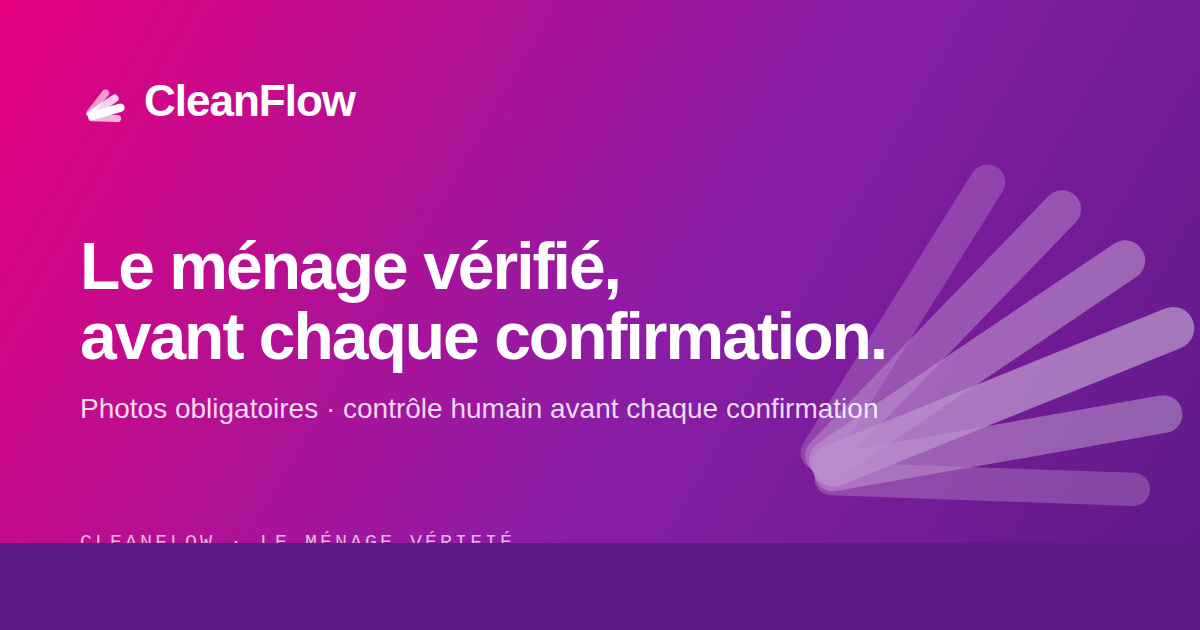
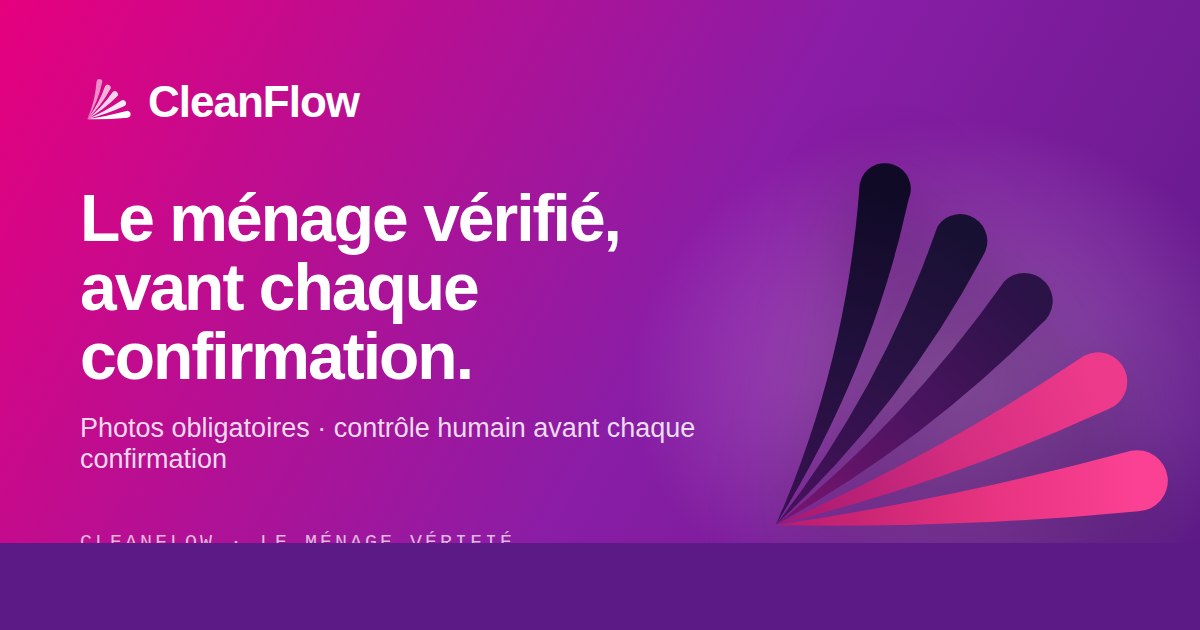
Portals: Plus Jakarta back + de-AI the components; OG uses real feather
- Font: restore Plus Jakarta Sans across ui.css and the four heads (removing
  it was a mistake — only the pink theme was requested).
- De-AI the shared components per common 'AI slop' tells (boxed-everything,
  left-accent stripes, candy tint fills, pill badges, symmetric shadowed
  stat tiles):
  * Mission/dossier rows: drop the left-border stripe and tint-fill; active
    state is now a pink title with a short underline accent, not a filled block.
  * Status: quiet typographic dot-tags instead of filled pills.
  * Tabs: editorial underlined tab bar instead of boxed button row.
  * Stats: de-boxed figure row with hairline dividers, ink numerals.
  * Cards flatter (no floaty shadow); price list reads like a receipt.
- OG image: embed the actual feather mark (assets/fan-mark.svg) as the hero
  graphic with a soft glow, plus a matching wordmark lockup.

Claude-Session: https://claude.ai/code/session_01PSFB2AcGDjQKMr7dBD2kz8

Changed region(s): [[0.0617, 0.2413, 1.0, 0.8444], [0.0617, 0.1206, 0.3083, 0.2111], [0.8017, 0.2413, 0.8325, 0.3016]]

diff --git a/assets/ui.css b/assets/ui.css
@@ -23,9 +23,9 @@
   --shadow-sm: 0 8px 20px rgba(18,18,58,.07);
 }
 *{ box-sizing:border-box; margin:0; padding:0; }
-body{ font-family:'Poppins', sans-serif; color:var(--ink); background:var(--soft); min-height:100vh; }
+body{ font-family:'Plus Jakarta Sans', sans-serif; color:var(--ink); background:var(--soft); min-height:100vh; }
 .app-wrap{ max-width: 1140px; margin:0 auto; padding: 30px 20px 70px 20px; }
-h1,h2,h3{ font-family:'Poppins', sans-serif; font-weight:700; letter-spacing:-0.02em; margin:0 0 12px; }
+h1,h2,h3{ font-family:'Plus Jakarta Sans', sans-serif; font-weight:700; letter-spacing:-0.02em; margin:0 0 12px; }
 h1{ font-size:34px; }
 h2{ font-size:24px; }
 p{ color:var(--muted); line-height:1.6; }
@@ -35,13 +35,13 @@ a{ color:var(--pink); }
 .top-row .btn.ghost{ background:rgba(255,255,255,0.10); border:1px solid rgba(255,255,255,0.4); color:var(--white); box-shadow:none; }
 .top-row .btn.ghost:hover:not(:disabled){ background:rgba(255,255,255,0.18); }
 .top-row .btn.ghost:active:not(:disabled){ background:rgba(255,255,255,0.06); }
-.brand{ font-family:'Poppins', sans-serif; font-weight:700; font-size:26px; letter-spacing:-0.01em; color:var(--white); }
+.brand{ font-family:'Plus Jakarta Sans', sans-serif; font-weight:700; font-size:26px; letter-spacing:-0.01em; color:var(--white); }
 .brand .k{ color: var(--pink-soft); }
 .role-tag{ font-size:11px; font-weight:700; text-transform:uppercase; letter-spacing:0.14em; color:rgba(255,255,255,0.62); margin-top:5px; }
 
 .eyebrow{ display:inline-block; font-size:11px; font-weight:800; text-transform:uppercase; letter-spacing:0.14em; color:var(--pink); border-left:3px solid var(--pink); padding-left:10px; line-height:1; margin-bottom:14px; }
 
-.btn{ display:inline-flex; align-items:center; justify-content:center; gap:8px; border:none; border-radius:var(--radius-sm); padding:13px 22px; min-height:44px; font-family:'Poppins', sans-serif; font-weight:700; font-size:14px; cursor:pointer; transition: transform .15s ease-out, background .15s ease-out, box-shadow .15s ease-out; }
+.btn{ display:inline-flex; align-items:center; justify-content:center; gap:8px; border:none; border-radius:var(--radius-sm); padding:13px 22px; min-height:44px; font-family:'Plus Jakarta Sans', sans-serif; font-weight:700; font-size:14px; cursor:pointer; transition: transform .15s ease-out, background .15s ease-out, box-shadow .15s ease-out; }
 .btn.primary{ background:var(--pink); color:var(--white); box-shadow:0 8px 20px rgba(230,0,126,.22); }
 .btn.primary:hover:not(:disabled){ background:var(--pink-deep); }
 .btn.gold{ background:var(--ink); color:var(--white); }
@@ -62,10 +62,10 @@ a{ color:var(--pink); }
 .loading-state{ display:flex; align-items:center; gap:12px; padding:26px; color:var(--muted); font-size:14px; }
 .spinner{ width:18px; height:18px; border:2px solid var(--line); border-top-color:var(--pink); border-radius:50%; animation:spin .7s linear infinite; flex-shrink:0; }
 
-.card{ background:var(--white); border:1px solid var(--line); border-radius:var(--radius); box-shadow:var(--shadow-sm); padding:28px 26px; margin-bottom:24px; }
+.card{ background:var(--white); border:1px solid var(--line); border-radius:var(--radius); padding:28px 26px; margin-bottom:22px; }
 details.card > summary{ cursor:pointer; list-style:none; display:flex; justify-content:space-between; align-items:center; gap:14px; }
 details.card > summary::-webkit-details-marker{ display:none; }
-details.card > summary::after{ content:'+'; font-family:'Poppins', sans-serif; font-weight:400; font-size:24px; color:var(--pink); flex-shrink:0; transition: transform .2s ease-out; }
+details.card > summary::after{ content:'+'; font-family:'Plus Jakarta Sans', sans-serif; font-weight:400; font-size:24px; color:var(--pink); flex-shrink:0; transition: transform .2s ease-out; }
 details.card[open] > summary::after{ transform: rotate(45deg); }
 details.card > summary h2{ margin:0; }
 details.card > summary .eyebrow{ margin-bottom:6px; }
@@ -74,7 +74,7 @@ details.card .collapse-body{ margin-top:22px; }
 @media (max-width:900px){ .grid2{ grid-template-columns:1fr; } }
 
 label{ display:block; font-size:13px; margin-bottom:6px; font-weight:600; }
-input, textarea, select{ width:100%; border:1px solid var(--line); border-radius:10px; padding:12px 14px; font-size:14px; font-family:'Poppins', sans-serif; background:var(--white); color:var(--ink); }
+input, textarea, select{ width:100%; border:1px solid var(--line); border-radius:10px; padding:12px 14px; font-size:14px; font-family:'Plus Jakarta Sans', sans-serif; background:var(--white); color:var(--ink); }
 input:focus, textarea:focus, select:focus{ outline:2px solid var(--pink); outline-offset:0; border-color:var(--pink); }
 textarea{ min-height:110px; resize:vertical; }
 .form-row{ margin-bottom:16px; }
@@ -90,13 +90,15 @@ textarea{ min-height:110px; resize:vertical; }
 .status-banner.error{ background:var(--danger-bg); color:var(--danger-ink); }
 .status-banner.success{ background:var(--ok-bg); color:var(--ok-ink); }
 
-.status-pill{ font-size:10px; font-weight:700; text-transform:uppercase; letter-spacing:0.08em; border-radius:999px; padding:7px 12px; height:fit-content; white-space:nowrap; }
-.status-pill.pending{ background:var(--tint); color:var(--pink); }
-.status-pill.accepted{ background:var(--pink); color:var(--white); }
-.status-pill.submitted{ background:#F6EEDD; color:#8A6516; }
-.status-pill.verified{ background:var(--ok-bg); color:var(--ok-ink); }
-.status-pill.rejected{ background:var(--danger-bg); color:var(--danger-ink); }
-.status-pill.cancelled{ background:#EEECEF; color:var(--muted); }
+/* Statuts : petite étiquette typographique avec pastille, plutôt qu'un badge plein */
+.status-pill{ display:inline-flex; align-items:center; gap:7px; font-size:11px; font-weight:700; letter-spacing:0.03em; background:none; padding:0; height:fit-content; white-space:nowrap; color:var(--muted); }
+.status-pill::before{ content:''; width:7px; height:7px; border-radius:50%; background:currentColor; flex-shrink:0; }
+.status-pill.pending{ color:#B0862A; }
+.status-pill.accepted{ color:var(--pink); }
+.status-pill.submitted{ color:#8A6516; }
+.status-pill.verified{ color:var(--ok-ink); }
+.status-pill.rejected{ color:var(--danger-ink); }
+.status-pill.cancelled{ color:var(--muted); }
 .btn.ghost.danger{ color:var(--danger-ink); }
 .btn.ghost.danger:hover:not(:disabled){ border-color:var(--danger-ink); color:var(--danger-ink); }
 /* État « armé » d'une confirmation deux-clics : blanc sur rouge, prioritaire
@@ -104,19 +106,20 @@ textarea{ min-height:110px; resize:vertical; }
 .confirm{ background:var(--danger-ink) !important; color:var(--white) !important; border-color:var(--danger-ink) !important; }
 .dossier .btn{ margin-top:14px; }
 
-.dossier, .task-card{ border-top:1px solid var(--line); padding:20px 0 24px; background:transparent; }
-.task-card.selectable{ cursor:pointer; transition: background .15s ease-out, padding .15s ease-out; }
-.task-card.selectable:hover{ background:var(--tint); padding-left:14px; padding-right:14px; border-radius:12px; }
-.task-card.active{ background:var(--tint); border-left:3px solid var(--pink); padding-left:14px; padding-right:14px; border-radius:12px; }
+.dossier, .task-card{ border-top:1px solid var(--line); padding:20px 2px 24px; background:transparent; }
+.task-card.selectable{ cursor:pointer; transition: color .15s ease-out; }
+.task-card.selectable:hover .task-title{ color:var(--pink); }
+.task-card.active .task-title{ color:var(--pink); }
+.task-card.active .task-title::after{ content:''; display:block; width:26px; height:2px; background:var(--pink); margin-top:7px; }
 .task-card .btn{ margin-top:14px; }
-.dossier-top, .task-top{ display:flex; justify-content:space-between; gap:14px; flex-wrap:wrap; }
-.dossier-addr, .task-title{ font-size:15px; font-weight:700; }
+.dossier-top, .task-top{ display:flex; justify-content:space-between; gap:14px; flex-wrap:wrap; align-items:baseline; }
+.dossier-addr, .task-title{ font-size:16px; font-weight:700; transition: color .15s ease-out; }
 .dossier-meta, .task-meta{ font-size:13px; color:var(--muted); margin-top:6px; display:block; }
 
 .property-card{ display:flex; justify-content:space-between; align-items:center; gap:8px; border-top:1px solid var(--line); background:transparent; transition: background .15s ease-out; }
-.property-select{ flex:1; display:flex; gap:14px; align-items:center; text-align:left; background:none; border:none; cursor:pointer; padding:14px 8px; min-height:44px; font-family:'Poppins', sans-serif; }
+.property-select{ flex:1; display:flex; gap:14px; align-items:center; text-align:left; background:none; border:none; cursor:pointer; padding:14px 8px; min-height:44px; font-family:'Plus Jakarta Sans', sans-serif; }
 .property-actions{ display:flex; gap:2px; padding-right:4px; }
-.mini-btn{ background:none; border:none; cursor:pointer; font-family:'Poppins', sans-serif; font-size:12.5px; font-weight:600; color:var(--muted); padding:8px 10px; min-height:44px; transition: color .15s ease-out; }
+.mini-btn{ background:none; border:none; cursor:pointer; font-family:'Plus Jakarta Sans', sans-serif; font-size:12.5px; font-weight:600; color:var(--muted); padding:8px 10px; min-height:44px; transition: color .15s ease-out; }
 .mini-btn:hover{ color:var(--pink); }
 .mini-btn.danger:hover{ color:var(--danger-ink); }
 .property-card:hover{ background:var(--tint); border-radius:12px; }
@@ -126,13 +129,13 @@ textarea{ min-height:110px; resize:vertical; }
 .p-meta{ font-size:12px; color:var(--muted); }
 
 .cal-header{ display:flex; align-items:center; justify-content:space-between; gap:12px; margin-top:16px; }
-.cal-month{ font-family:'Poppins', sans-serif; font-size:17px; font-weight:600; text-align:center; }
+.cal-month{ font-family:'Plus Jakarta Sans', sans-serif; font-size:17px; font-weight:600; text-align:center; }
 .cal-nav{ min-width:44px; padding:10px 0; font-size:18px; line-height:1; }
 .cal-grid{ display:grid; grid-template-columns: repeat(7,1fr); gap:6px; margin-top:14px; }
 .cal-day.empty{ visibility:hidden; }
 .cal-day.past{ background:var(--soft); color:#B9B6C4; cursor:not-allowed; border-color:transparent; }
 .cal-day-label{ font-size:10px; font-weight:600; color:var(--muted); text-align:center; padding-bottom:4px; }
-.cal-day{ min-height:44px; padding:12px 0; text-align:center; background:transparent; border:1px solid var(--line); border-radius:10px; cursor:pointer; font-weight:600; font-size:13px; font-family:'Poppins', sans-serif; transition: border-color .15s ease-out, background .15s ease-out, transform .15s ease-out; }
+.cal-day{ min-height:44px; padding:12px 0; text-align:center; background:transparent; border:1px solid var(--line); border-radius:10px; cursor:pointer; font-weight:600; font-size:13px; font-family:'Plus Jakarta Sans', sans-serif; transition: border-color .15s ease-out, background .15s ease-out, transform .15s ease-out; }
 .cal-day:hover:not(:disabled){ border-color:var(--pink); transform:translateY(-1px); }
 .cal-day:active:not(:disabled){ transform:scale(0.96); }
 .cal-day.today{ border-color:var(--gold); }
@@ -141,7 +144,7 @@ textarea{ min-height:110px; resize:vertical; }
 
 .form-footer{ display:flex; justify-content:space-between; flex-wrap:wrap; gap:14px; align-items:center; margin-top:18px; padding-top:18px; border-top:1px solid var(--line); }
 .price-label{ font-size:12px; color:var(--muted); }
-.price-value{ font-family:'Poppins', sans-serif; font-size:26px; font-weight:700; color:var(--pink); }
+.price-value{ font-family:'Plus Jakarta Sans', sans-serif; font-size:26px; font-weight:700; color:var(--pink); }
 .service-option{ display:flex; align-items:center; gap:10px; margin-bottom:10px; font-weight:500; font-size:14px; }
 .service-option input{ width:16px; height:16px; }
 
@@ -156,23 +159,23 @@ textarea{ min-height:110px; resize:vertical; }
 .star-static{ font-size:18px; line-height:1; color:var(--line); }
 .star-static.filled{ color:var(--gold); }
 .rating-avg{ display:flex; align-items:center; gap:12px; flex-wrap:wrap; }
-.rating-avg-num{ font-family:'Poppins', sans-serif; font-size:40px; font-weight:700; color:var(--pink); line-height:1; }
+.rating-avg-num{ font-family:'Plus Jakarta Sans', sans-serif; font-size:40px; font-weight:700; color:var(--pink); line-height:1; }
 .rating-avg-out{ font-size:15px; color:var(--muted); align-self:flex-end; }
 .rating-avg .stars-static{ margin-top:0; }
 
 /* Onglets console admin — une section à la fois, moins de scroll sur mobile */
-.tabbar{ position:sticky; top:0; z-index:20; display:flex; gap:8px; overflow-x:auto; -webkit-overflow-scrolling:touch; scrollbar-width:none; background:var(--soft); padding:12px 0; margin-bottom:24px; border-bottom:1px solid var(--line); }
+.tabbar{ position:sticky; top:0; z-index:20; display:flex; gap:26px; overflow-x:auto; -webkit-overflow-scrolling:touch; scrollbar-width:none; background:var(--soft); padding:6px 0 0; margin-bottom:24px; border-bottom:1px solid var(--line); }
 .tabbar::-webkit-scrollbar{ display:none; }
-.tab{ flex:0 0 auto; display:inline-flex; align-items:center; gap:8px; background:var(--white); color:var(--ink); border:1px solid var(--line); border-radius:10px; box-shadow:var(--shadow-sm); font-family:'Poppins', sans-serif; font-weight:700; font-size:13px; padding:10px 15px; cursor:pointer; white-space:nowrap; transition: transform .12s ease-out, background .12s ease-out, color .12s ease-out; }
-.tab:hover:not(.active){ transform:translateY(-1px); border-color:var(--pink-soft); }
-.tab.active{ background:var(--pink); color:var(--white); border-color:var(--pink); }
-.tab-badge{ display:inline-flex; align-items:center; justify-content:center; min-width:20px; height:20px; padding:0 6px; border-radius:999px; background:var(--tint); color:var(--pink); font-size:11px; font-weight:700; }
+.tab{ flex:0 0 auto; display:inline-flex; align-items:center; gap:7px; background:none; color:var(--muted); border:none; border-bottom:2px solid transparent; border-radius:0; box-shadow:none; font-family:'Plus Jakarta Sans', sans-serif; font-weight:700; font-size:14px; padding:10px 2px 14px; cursor:pointer; white-space:nowrap; transition: color .12s ease-out, border-color .12s ease-out; }
+.tab:hover:not(.active){ color:var(--ink); }
+.tab.active{ color:var(--pink); border-bottom-color:var(--pink); }
+.tab-badge{ display:inline-flex; align-items:center; justify-content:center; min-width:19px; height:19px; padding:0 6px; border-radius:999px; background:var(--tint); color:var(--pink); font-size:11px; font-weight:700; }
 .tab-badge.hidden{ display:none; }
-.tab.active .tab-badge{ background:rgba(255,255,255,0.25); color:var(--white); }
+.tab.active .tab-badge{ background:var(--pink); color:var(--white); }
 .tab-badge.urgent{ background:var(--danger-ink); color:var(--white); }
-.tab.active .tab-badge.urgent{ background:var(--white); color:var(--danger-ink); }
+.tab.active .tab-badge.urgent{ background:var(--danger-ink); color:var(--white); }
 .admin-section.hidden{ display:none; }
-.compta-amount{ font-family:'Poppins', sans-serif; font-weight:700; font-size:15px; white-space:nowrap; text-align:right; }
+.compta-amount{ font-family:'Plus Jakarta Sans', sans-serif; font-weight:700; font-size:15px; white-space:nowrap; text-align:right; }
 .adj-bonus{ color:var(--ok-ink); }
 .adj-malus{ color:var(--danger-ink); }
 
@@ -184,7 +187,7 @@ textarea{ min-height:110px; resize:vertical; }
 .roster a:hover{ text-decoration:underline; }
 .roster-load{ font-size:12px; font-weight:600; color:var(--pink-deep); margin-top:8px; }
 .roster-subhead{ font-size:10px; font-weight:700; letter-spacing:0.08em; text-transform:uppercase; color:var(--muted); margin-top:18px; }
-.roster-name{ background:none; border:none; padding:0; cursor:pointer; font-family:'Poppins', sans-serif; font-weight:700; font-size:15px; color:var(--pink); text-align:left; }
+.roster-name{ background:none; border:none; padding:0; cursor:pointer; font-family:'Plus Jakarta Sans', sans-serif; font-weight:700; font-size:15px; color:var(--pink); text-align:left; }
 .roster-name:hover{ text-decoration:underline; }
 .roster-suspended{ opacity:0.6; }
 .roster-suspended .roster-name{ color:var(--muted); }
@@ -217,7 +220,7 @@ textarea{ min-height:110px; resize:vertical; }
 .acal-cell.sel{ border-color:var(--pink); box-shadow:inset 0 0 0 2px var(--pink); }
 .acal-num{ font-size:11px; font-weight:700; color:var(--muted); }
 .acal-cell.today .acal-num{ color:var(--pink); }
-.acal-event{ display:block; width:100%; text-align:left; font-family:'Poppins', sans-serif; font-size:11px; font-weight:600; line-height:1.25; padding:4px 6px; border-radius:6px; color:var(--ink); background:var(--tint); border-left:3px solid var(--muted); white-space:nowrap; overflow:hidden; text-overflow:ellipsis; }
+.acal-event{ display:block; width:100%; text-align:left; font-family:'Plus Jakarta Sans', sans-serif; font-size:11px; font-weight:600; line-height:1.25; padding:4px 6px; border-radius:6px; color:var(--ink); background:var(--tint); border-left:3px solid var(--muted); white-space:nowrap; overflow:hidden; text-overflow:ellipsis; }
 .cal-day-panel{ margin-top:20px; }
 .cal-day-panel .task-card:first-of-type{ border-top:none; }
 .acal-event.pending{ background:#FBF3DF; border-left-color:var(--gold); }
@@ -238,7 +241,7 @@ textarea{ min-height:110px; resize:vertical; }
 .acal-key i.rejected{ border-left-color:var(--danger-ink); }
 .acal-key i.urgent{ border-left-color:var(--danger-ink); background:var(--danger-bg); }
 
-.price-breakdown{ margin-top:18px; padding:14px 16px; border-radius:12px; background:var(--tint); border:1px solid var(--line); }
+.price-breakdown{ margin-top:18px; padding:14px 0 4px; border-top:1px solid var(--line); }
 .price-breakdown.hidden{ display:none; }
 .pb-line{ display:flex; justify-content:space-between; align-items:baseline; gap:14px; font-size:13.5px; color:var(--muted); padding:5px 0; }
 .pb-line b{ color:var(--ink); font-weight:600; }
@@ -253,11 +256,12 @@ textarea{ min-height:110px; resize:vertical; }
 .photo-slot.uploading::after{ content:''; position:absolute; top:50%; left:50%; width:22px; height:22px; margin:-11px 0 0 -11px; border:3px solid var(--line); border-top-color:var(--pink); border-radius:50%; animation:spin .7s linear infinite; }
 .photo-caption{ position:absolute; bottom:0; left:0; right:0; background:rgba(184,0,104,0.85); color:var(--white); font-size:11px; padding:5px; text-decoration:none; }
 
-.stat-grid{ display:grid; grid-template-columns:repeat(4,1fr); gap:16px; }
-@media (max-width:720px){ .stat-grid{ grid-template-columns:1fr 1fr; } }
-.stat{ border:1px solid var(--line); border-radius:var(--radius-sm); box-shadow:var(--shadow-sm); padding:16px 18px; background:var(--white); }
-.stat b{ display:block; font-size:28px; font-weight:800; line-height:1.1; color:var(--pink); }
-.stat span{ font-size:10px; font-weight:700; text-transform:uppercase; letter-spacing:0.08em; color:var(--muted); display:block; margin-top:6px; }
+.stat-grid{ display:flex; flex-wrap:wrap; gap:0; border-top:1px solid var(--line); border-bottom:1px solid var(--line); }
+.stat{ flex:1 1 140px; padding:18px 24px; background:transparent; border-left:1px solid var(--line); }
+.stat:first-child{ border-left:none; padding-left:2px; }
+@media (max-width:720px){ .stat{ flex-basis:45%; } .stat:nth-child(odd){ border-left:none; padding-left:2px; } }
+.stat b{ display:block; font-size:27px; font-weight:700; line-height:1.1; color:var(--ink); letter-spacing:-0.02em; }
+.stat span{ font-size:12px; font-weight:500; color:var(--muted); display:block; margin-top:5px; }
 .task-card.done{ opacity:.55; }
 
 .incident-item{ border:1px solid var(--line); border-left:3px solid var(--gold); border-radius:10px; padding:14px; margin-bottom:10px; font-size:14px; }

diff --git a/admin/index.html b/admin/index.html
@@ -7,7 +7,7 @@
 <title>CleanFlow — Vérification</title>
 <link rel="icon" href="../assets/fan-mark.svg">
 <link rel="preconnect" href="https://fonts.googleapis.com">
-<link href="https://fonts.googleapis.com/css2?family=Poppins:wght@400;500;600;700;800&display=swap" rel="stylesheet">
+<link href="https://fonts.googleapis.com/css2?family=Plus+Jakarta+Sans:wght@400;500;600;700;800&display=swap" rel="stylesheet">
 <link rel="stylesheet" href="../assets/ui.css">
 </head>
 <body>

diff --git a/app/index.html b/app/index.html
@@ -6,7 +6,7 @@
 <title>CleanFlow — Espace client</title>
 <link rel="icon" href="../assets/fan-mark.svg">
 <link rel="preconnect" href="https://fonts.googleapis.com">
-<link href="https://fonts.googleapis.com/css2?family=Poppins:wght@400;500;600;700;800&display=swap" rel="stylesheet">
+<link href="https://fonts.googleapis.com/css2?family=Plus+Jakarta+Sans:wght@400;500;600;700;800&display=swap" rel="stylesheet">
 <link rel="stylesheet" href="../assets/ui.css">
 </head>
 <body>

diff --git a/prestataire/index.html b/prestataire/index.html
@@ -7,7 +7,7 @@
 <title>CleanFlow — Prestataire</title>
 <link rel="icon" href="../assets/fan-mark.svg">
 <link rel="preconnect" href="https://fonts.googleapis.com">
-<link href="https://fonts.googleapis.com/css2?family=Poppins:wght@400;500;600;700;800&display=swap" rel="stylesheet">
+<link href="https://fonts.googleapis.com/css2?family=Plus+Jakarta+Sans:wght@400;500;600;700;800&display=swap" rel="stylesheet">
 <link rel="stylesheet" href="../assets/ui.css">
 </head>
 <body>

diff --git a/livreur/index.html b/livreur/index.html
@@ -7,7 +7,7 @@
 <title>CleanFlow — Livreur</title>
 <link rel="icon" href="../assets/fan-mark.svg">
 <link rel="preconnect" href="https://fonts.googleapis.com">
-<link href="https://fonts.googleapis.com/css2?family=Poppins:wght@400;500;600;700;800&display=swap" rel="stylesheet">
+<link href="https://fonts.googleapis.com/css2?family=Plus+Jakarta+Sans:wght@400;500;600;700;800&display=swap" rel="stylesheet">
 <link rel="stylesheet" href="../assets/ui.css">
 </head>
 <body>
